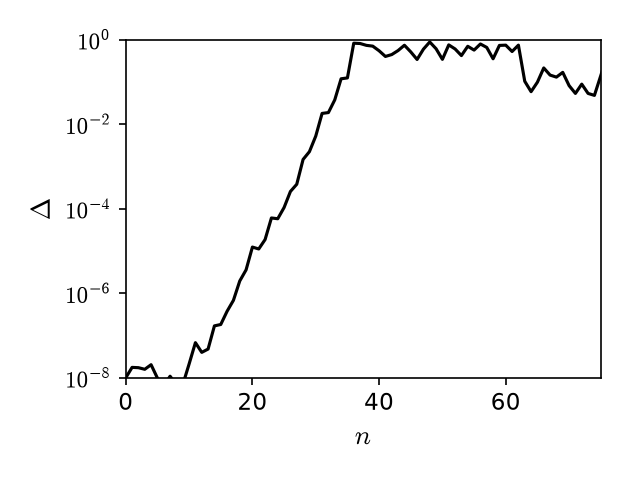
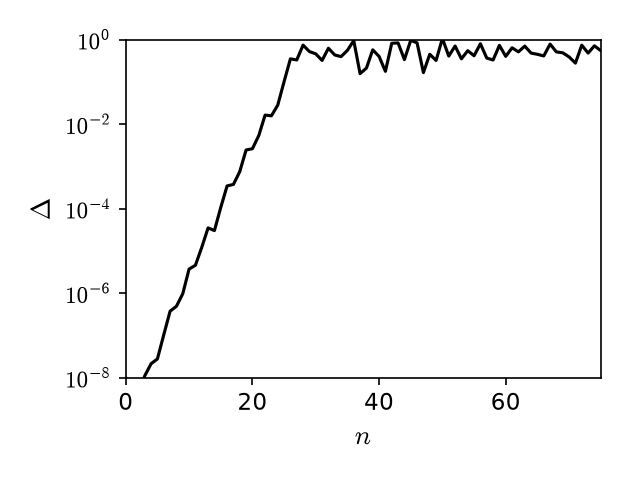
cont3d: true Lorenz spectrum in the listing, t = 18 saturation (C3-1, C3-7); disc2d: D2-11, D2-12, D2-13

diff --git a/creators/python/cont3d/fig_lorenz_lyapunov.py b/creators/python/cont3d/fig_lorenz_lyapunov.py
@@ -54,6 +54,11 @@ save("cont3d_lorenz_lyapunov")
 m = (s1.t > 1) & (delta < 1e-1)
 slope = np.polyfit(s1.t[m], np.log(delta[m]), 1)[0]
 print("fit of ln(delta) against t (delta < 0.1): slope = %.3f" % slope)
+# when does the separation reach the size of the attractor? (saturation)
+t_sat = s1.t[np.argmax(delta > 10)]
+print("delta first exceeds 10 at t = %.2f; delta(t=15) = %.2f; "
+      "mean delta over t in [18, 20] = %.2f"
+      % (t_sat, delta[s1.t >= 15][0], delta[s1.t >= 18].mean()))
 
 # -- effective exponent: N = 6000, dt = 0.005, eps = 1e-12 --------------------
 eps = 1e-12
@@ -61,7 +66,8 @@ dt = 0.005
 x10 = solve_ivp(cb.lorenz, [0, 10], [2, 5, 5], rtol=1e-12, atol=1e-14,
                 method="DOP853").y[:, -1]          # transient t = 10
 a, bb = run(x10, 30 - dt, dt), run(x10 + [eps, 0, 0], 30 - dt, dt)
-le, ev = cb.effective_lyapunov(cb.lorenz, a.t, a.y.T, bb.y.T)
+le, local_rates = cb.effective_lyapunov(cb.lorenz, a.t, a.y.T, bb.y.T)
+ev = local_rates                       # instantaneous stretching rates of J_S
 good = np.linalg.norm(bb.y - a.y, axis=0) < 1.0     # perturbation still small
 print("Lambda_e time average (delta < 1): %.3f; between %.3f and %.3f"
       % (le[good].mean(), ev[good, 0].mean(), ev[good, -1].mean()))

diff --git a/creators/python/disc2d/fig_standardmap.py b/creators/python/disc2d/fig_standardmap.py
@@ -48,7 +48,7 @@ def run(x0, n=2000, ntrans=1000):
 
 # -- series, return plots and deviations -----------------------------------------------
 eps = 1e-8
-for name, x0, nmax in [("quasi", (0.4, 0.1), 750), ("chaos", (0.05, 0.4), 75)]:
+for name, x0, nmax in [("quasi", (0.4, 0.1), 750), ("chaos", (0.1, 0.1), 75)]:
     X = run(x0)
     X2 = cb.orbit(cb.standard_map, X[0] + [eps, 0.0], 2000, K=K)
     plt.figure(figsize=(4.2, 3.2))

diff --git a/python/disc2d.md b/python/disc2d.md
@@ -646,7 +646,7 @@ J (\mathbf{x}) &=
 \end{aligned}
 $$
 
-In {numref}`fig:disc2d:henonattractor` we show the classical result in phase space $(x_n,y_n)$ for the parameter choice of $a = 1.4$ and $b = 0.3$. To obtain such a graph one can use the same Python code as used for the Duffing map in section {numref}`sec:disc2d:duffing`.  Below we set out to obtain the Lyapunov exponents {eq}`eq:disc2d:lyap_anyorder` for the Hénon map with $a = 1.4$ and $b = 0.3$. See the Python code. First we define the mapping and determine the Jacobian, which we can later easily call as $J(x_n,y_n)$. Next we iterate the mapping $N=400$ times, each time performing the matrix multiplication with $J(\mathbf{x}_n)$ and storing the cumulative result in $\mathbf{C}$, which in the end therefore contains $\overline{J}^N$. In the next steps the eigenvalues are calculated, from which the Lyapunov exponents are derived using {eq}`eq:disc2d:lyap_anyorder`. The Python code below produces something like $\Lambda_1 \approx -1.6, \Lambda_2 \approx +0.4$. It is important to note that one Lyapunov exponent is positive and one is negative. This explains why we use a very large number of digits in the code. This is crucial because one eigenvalue rapidly decreases as $\exp(\Lambda_1 N)$, while the other rapidly grows as $\exp(\Lambda_2 N)$; this obviously necessitates a high numerical precision to continue to perform the matrix multiplications with reasonable accuracy. Probably more sophisticated algorithms are available to perform the above procedure (the package's `cb.lyapunov_spectrum`, shown at the end of the code, re-orthonormalises the perturbations with a QR decomposition at every step and so needs no extra digits), but we chose to use `mpmath` with the number of digits set to a very large number and a brute force method which has the advantage of being very straightforward.
+In {numref}`fig:disc2d:henonattractor` we show the classical result in phase space $(x_n,y_n)$ for the parameter choice of $a = 1.4$ and $b = 0.3$. To obtain such a graph one can use the same Python code as used for the Duffing map in section {numref}`sec:disc2d:duffing`.  Below we set out to obtain the Lyapunov exponents {eq}`eq:disc2d:lyap_anyorder` for the Hénon map with $a = 1.4$ and $b = 0.3$. See the Python code. First we define the mapping and determine the Jacobian, which we can later easily call as $J(x_n,y_n)$. Next we iterate the mapping $N=400$ times, each time performing the matrix multiplication with $J(\mathbf{x}_n)$ and storing the cumulative result in $\mathbf{C}$, which in the end therefore contains $\overline{J}^N$. In the next steps the eigenvalues are calculated, from which the Lyapunov exponents are derived using {eq}`eq:disc2d:lyap_anyorder`. The Python code below produces something like $\Lambda_1 \approx -1.6, \Lambda_2 \approx +0.4$. It is important to note that one Lyapunov exponent is positive and one is negative. This explains why we use a very large number of digits in the code. This is crucial because one eigenvalue rapidly decreases as $\exp(\Lambda_1 N)$, while the other rapidly grows as $\exp(\Lambda_2 N)$; this obviously necessitates a high numerical precision to continue to perform the matrix multiplications with reasonable accuracy. More sophisticated algorithms are available to perform the above procedure. The package's `cb.lyapunov_spectrum`, shown at the end of the code, re-orthonormalises the perturbations with a QR decomposition at every step and so needs no extra digits. Here we chose to use `mpmath` with the number of digits set to a very large number and a brute force method which has the advantage of being very straightforward.
 
 ````{admonition} Python
 :class: python
@@ -1227,7 +1227,7 @@ Coexistence of chaotic and quasi-periodic solutions at $K=2$. Note the factor 10
 *[Code behind this figure](https://github.com/mvreeuwijk/chaosbook/blob/main/creators/python/disc2d/fig_standardmap.py)*
 :::
 
-Unlike the maps we studied so far, the behavior of the standard map depends strongly on its initial conditions. Indeed, chaotic behavior was normally obtained by changing a system parameter, such as $r$ in the case of the logistic map. For the standard map, (quasi-) periodic solutions can coexist with chaotic solutions at fixed $K$. {numref}`fig:disc2d_standardmap:quasi_series` shows a time-series with initial conditions $(x_0, y_0) = (0.4, 0.1)$ at $K=2$. Although there seems to be some order in the system judging from the hexagonal-like patterns, the series seems to traverse an entire interval of $x$.  The return plot of ({numref}`fig:disc2d_standardmap:quasi_series`) shows that all points fall on one curve, which suggests that the series is either quasi-periodic or chaotic. One can distinguish between the two by studying the sensitivity to initial conditions, and {numref}`fig:disc2d_standardmap:quasi_series` shows that deviations seems to saturate at $10^{-5}$. The assiocated Lyapunov exponent $\Lambda \approx 0$, and we conclude that this series is quasi-periodic.
+Unlike the maps we studied so far, the behavior of the standard map depends strongly on its initial conditions. Indeed, chaotic behavior was normally obtained by changing a system parameter, such as $r$ in the case of the logistic map. For the standard map, (quasi-) periodic solutions can coexist with chaotic solutions at fixed $K$. {numref}`fig:disc2d_standardmap:quasi_series` shows a time-series with initial conditions $(x_0, y_0) = (0.4, 0.1)$ at $K=2$. Although there seems to be some order in the system judging from the hexagonal-like patterns, the series seems to traverse an entire interval of $x$.  The return plot of ({numref}`fig:disc2d_standardmap:quasi_series`) shows that all points fall on one curve, which suggests that the series is either quasi-periodic or chaotic. One can distinguish between the two by studying the sensitivity to initial conditions, and {numref}`fig:disc2d_standardmap:quasi_series` shows that the deviations, starting from $10^{-8}$, grow only algebraically and not exponentially, reaching about $4\cdot 10^{-6}$ after 750 iterations. The assiocated Lyapunov exponent $\Lambda \approx 0$, and we conclude that this series is quasi-periodic.
 
 On the other hand, using initial conditions $(x_0, y_0) = (0.1, 0.1)$, the standard map displays chaotic behavior. The series is shown in {numref}`fig:disc2d_standardmap:quasi_series`, and its return plot in {numref}`fig:disc2d_standardmap:quasi_series`. The return plot reveals very little order in the system: based on a current value $x_n$ practically all values can be expected for $x_{n+1}$, except when $x_n$ is near $0.5$. The chaotic nature of the series can be verified by the sensitive dependence on initial conditions ({numref}`fig:disc2d_standardmap:quasi_series`), with an estimated (effective) Lyapunov exponent of $\Lambda \simeq 0.4$.
 

diff --git a/python/cont3d.md b/python/cont3d.md
@@ -159,7 +159,7 @@ In {numref}`fig:cont3d:lorenzlyapunov` the evolution of the vectorial distance b
 \delta(t) = \delta(0) \mathrm{e}^{\textstyle \Lambda_e t}
 ```
 
-with an *effective* Lyapunov exponent $\Lambda_e \simeq 0.9$. As this Lyapunov exponent is positive, there is clearly a sensitive dependence to initial conditions. Note that the distance between the trajectories does not grow monotonically but fluctuates in time. This is because the distance between the trajectories varies along the attractor. At $t=15$, the distance reaches the size of the attractor and cannot grow any more. At this point the trajectories are no longer correlated to each other. Some caution needs to be taken with the effective Lyapunov exponent. First, the Lyapunov exponent can depend on the starting position on the attractor. Second, the Lorenz equations have three degrees of freedom, which means that there are three principle directions and therefore also three Lyapunov exponents.
+with an *effective* Lyapunov exponent $\Lambda_e \simeq 0.9$. As this Lyapunov exponent is positive, there is clearly a sensitive dependence to initial conditions. Note that the distance between the trajectories does not grow monotonically but fluctuates in time. This is because the distance between the trajectories varies along the attractor. At $tpprox 18$, the distance reaches the size of the attractor and cannot grow any more. At this point the trajectories are no longer correlated to each other. Some caution needs to be taken with the effective Lyapunov exponent. First, the Lyapunov exponent can depend on the starting position on the attractor. Second, the Lorenz equations have three degrees of freedom, which means that there are three principle directions and therefore also three Lyapunov exponents.
 
 To see the relation between these three Lyapunov exponents and the effective Lyapunov exponent, we first derive for the evolution of the distance between two trajectories
 
@@ -287,7 +287,7 @@ plt.xlabel("$t$")
 plt.ylabel(r"$\Lambda$")
 
 # the package does the same, with a numerical Jacobian
-le_cb, ev_cb = cb.effective_lyapunov(cb.lorenz, t, X1.T, X2.T)
+le_cb, local_rates = cb.effective_lyapunov(cb.lorenz, t, X1.T, X2.T)
 print("max |difference| with cb.effective_lyapunov:", np.abs(le - le_cb).max())
 
 # time averages over the run (the perturbation is still tiny: delta < 1)
@@ -298,8 +298,16 @@ print("sum of the eigenvalues:", (l1 + l2 + l3).mean(), " -(sigma+1+b) =", -(sig
 
 # the largest Lyapunov exponent proper, by renormalising the perturbation
 print("largest exponent:", cb.lyapunov_exponent(cb.lorenz, x0, 100, dt=0.02))
+
+# the complete spectrum: integrate the variational equations for the tangent
+# vectors and re-orthonormalise them with a QR decomposition (as in chapter 3)
+jac = lambda t, s: np.array(J_num(*s), float)
+spectrum = cb.lyapunov_spectrum_flow(cb.lorenz, jac, x0, 200, dt=0.05, transient=20)
+print("Lyapunov spectrum:", spectrum, " sum:", spectrum.sum())
 ```
 ````
+
+The last lines of the program compute the Lyapunov spectrum proper with `cb.lyapunov_spectrum_flow`, from the variational equations with a QR re-orthonormalisation; it gives approximately $(0.90,\ 0.00,\ -14.57)$ (the literature value of the largest exponent is 0.906), with the sum $-(\sigma+1+b)$ of the exponents equal to the sum of the eigenvalues above. Compare these numbers with the time averages of $\Lambda_1,\Lambda_2,\Lambda_3$ printed above.
 
 ## Reducing complexity
 
